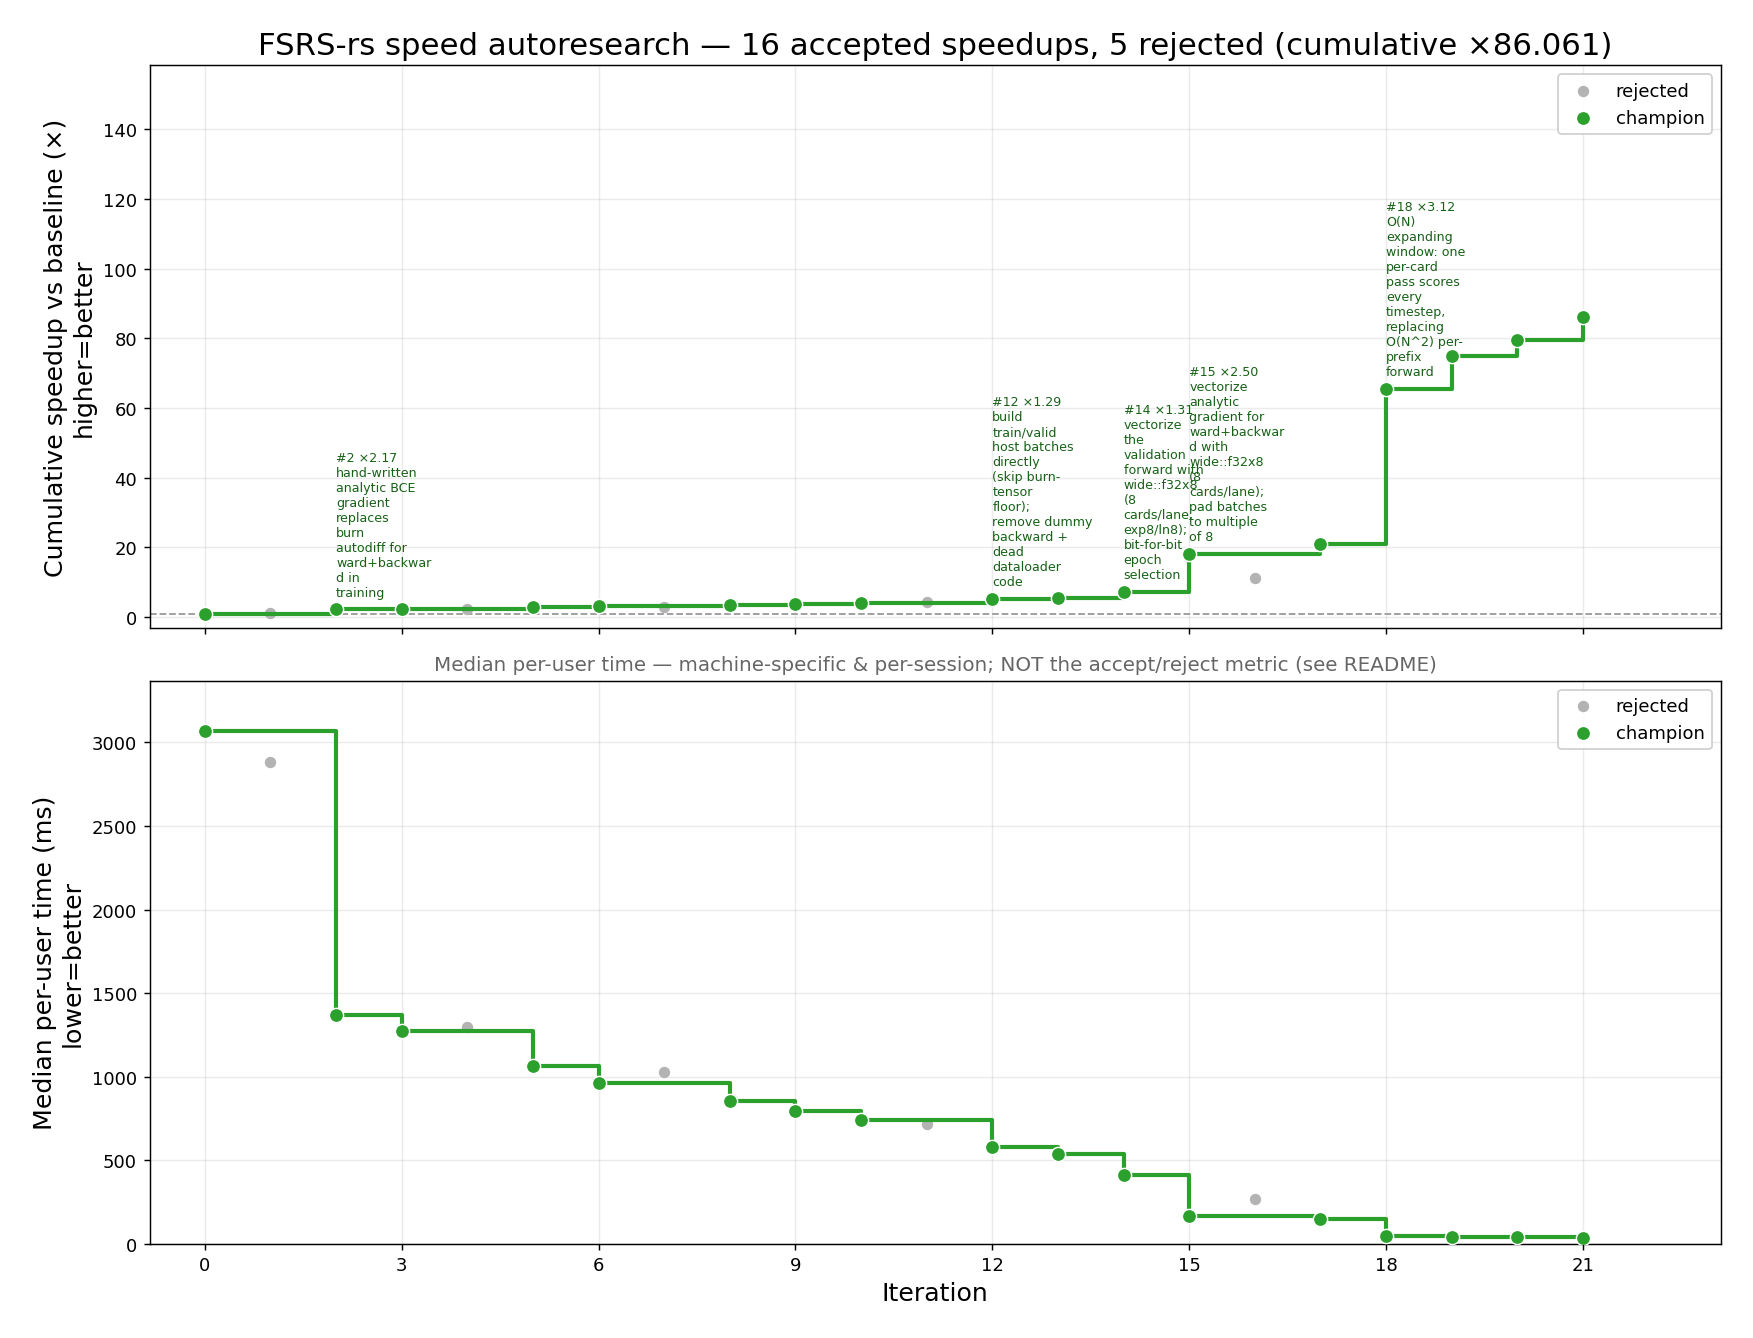
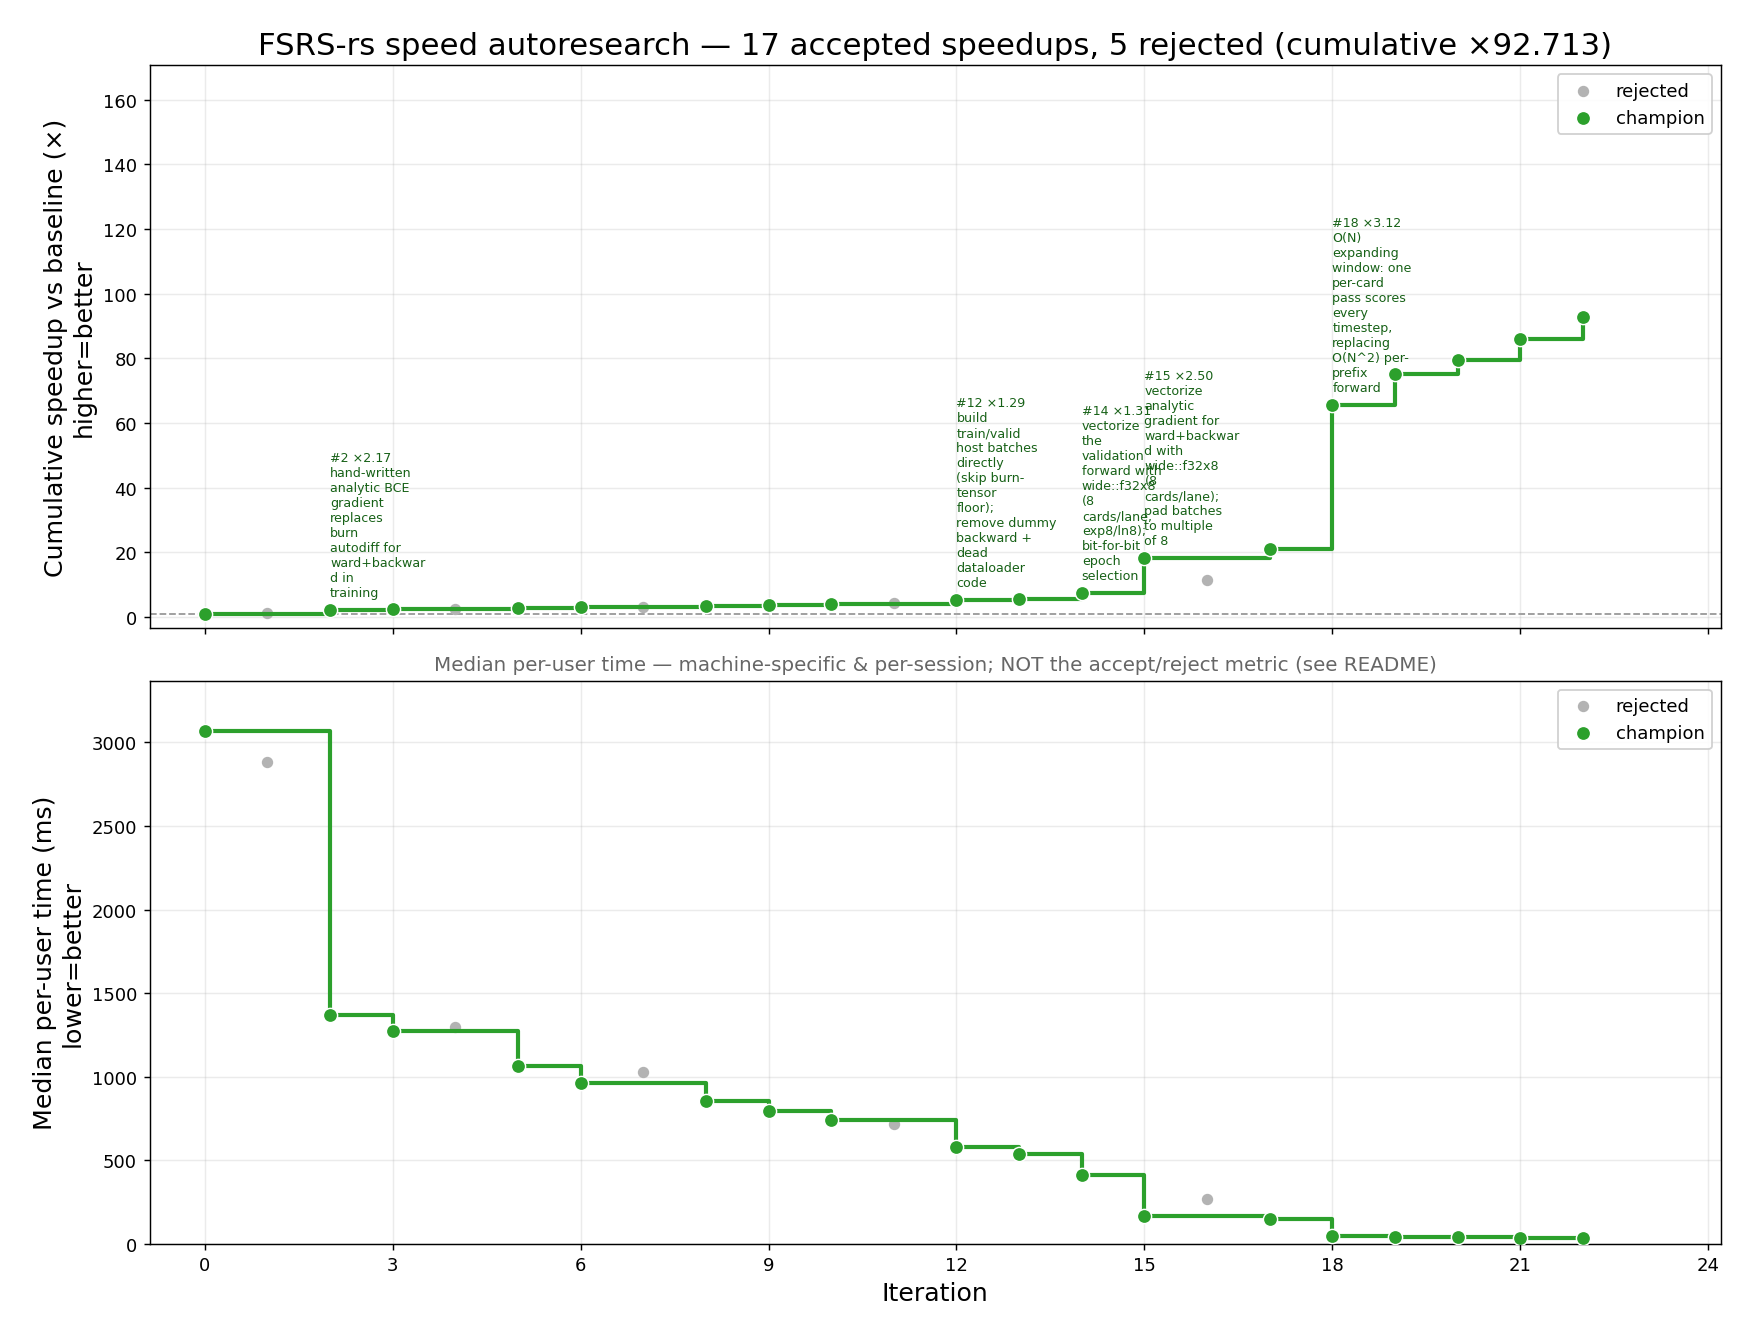
iter22: hand-roll Adam on host f32 — +7.7% median, bit-for-bit (both harnesses)
The analytic gradient already removed burn's autodiff; burn's tensor Adam
optimizer was the LAST burn code in the per-step loop. Each step round-tripped
the 36 params through model.w.val().to_data().to_vec() (twice, with the clipper)
plus a fresh GradientsParams container.

Now the parameters live in a plain Vec<f32> and Adam runs element-wise — a
faithful replica of burn 0.17's AdaptiveMomentum:
  m = m*b1 + g*(1-b1);  v = v*b2 + g.powf(2)*(1-b2);  t starts at 1
  w -= lr * (m/(1-b1^t)) / (sqrt(v/(1-b2^t)) + eps)
burn's first-step special case (m = g*factor) is just this with m=v=0, so one
unified loop reproduces it. Hyperparameters are single-sourced as ADAM_BETA1/2/EPS
consts (== the AdamConfig; constraint 4 freezes them).

Same arithmetic in the same order => BIT-FOR-BIT:
  - compute_parameters: 0/50 params, d_AVG LogLoss +0.000000
  - benchmark.py:       0/50 params, max |dLL| = 0  (vs the iter21 champion)
A math-unchanged (3a) win, not a precision trade.

Removed: parameter_clipper, the grad-tensor/GradientsParams plumbing, the
GradientsParams/Optimizer/Param imports, config.optimizer.init(). Per-step
profile now shows opt=0.000 (was ~7% on big users, more on the median).

Speed: median speed_ratio 1.0773 (mean 1.0836), 36.5 -> 34.5 ms. complexity
7187 -> 7180. Cumulative product of accepted: x92.71.

Also refreshed the (stale, iter20-era) committed benchmark output, and added two
Bash-on-Windows gotchas to CLAUDE.md (Git Bash /tmp != Python /tmp; start is cmd-only).

diff --git a/fsrs-rs/src/training.rs b/fsrs-rs/src/training.rs
@@ -8,9 +8,8 @@ use burn::config::Config;
 use burn::data::dataloader::batcher::Batcher;
 use burn::data::dataloader::Progress;
 use burn::lr_scheduler::LrScheduler;
-use burn::module::Param;
 use burn::nn::loss::Reduction;
-use burn::optim::{AdamConfig, GradientsParams, Optimizer};
+use burn::optim::AdamConfig;
 use burn::prelude::Backend;
 use burn::tensor::{Float, Int, Shape, Tensor, TensorData};
 use burn::tensor::backend::AutodiffBackend;
@@ -591,6 +590,14 @@ type B = NdArray<f32>;
 const L2_PENALTY_WEIGHT: f64 = training_v7::PENALTY_W_L2;
 const PENALTY_GRAD_LEN: usize = training_v7::GRAD_LEN;
 
+// Adam hyperparameters — MUST equal the AdamConfig built in compute_parameters()/benchmark().
+// Constraint 4 freezes these, so this single copy can't drift from the config. Used by the
+// hand-rolled host Adam in train(), which replaced burn's tensor optimizer (and its per-step
+// host round-trips) with an element-wise replica of burn 0.17's AdaptiveMomentum.
+const ADAM_BETA1: f32 = 0.55;
+const ADAM_BETA2: f32 = 0.955555;
+const ADAM_EPS: f32 = 1e-8;
+
 type SchedulePenaltyFn = fn(&[f32], usize, bool) -> (f64, [f64; PENALTY_GRAD_LEN]);
 type L2PenaltyFn = fn(&[f32], &[f32], usize, usize, f64, &[f32]) -> (f64, Vec<f32>);
 
@@ -682,23 +689,7 @@ impl LrScheduler for CosineAnnealingLR {
     }
 }
 
-// ========== Parameter Clipper ==========
-
-pub(crate) fn parameter_clipper<B: Backend>(
-    parameters: Param<Tensor<B, 1>>,
-    enable_short_term: bool,
-) -> Param<Tensor<B, 1>> {
-    let (id, val) = parameters.consume();
-    let clipped = clip_parameters(&val.to_data().to_vec().unwrap());
-    // Dual-trace FSRS-7 has no separate short-term toggle (the old w[26] transition
-    // weight is gone); the fast trace is intrinsic. enable_short_term is kept in the
-    // signature for call-site compatibility but no longer zeros any parameter.
-    let _ = enable_short_term;
-    Param::initialized(
-        id,
-        Tensor::from_data(TensorData::new(clipped, val.shape()), &val.device()).require_grad(),
-    )
-}
+// ========== (parameter clipping is now inlined into train()'s host Adam via clip_parameters) ==========
 
 // ========== FSRSItem and FSRSReview ==========
 
@@ -1558,21 +1549,28 @@ fn train<B: AutodiffBackend>(
         None => Box::new(NoProgress {}),
     };
 
-    let mut model: Model<B> = parameters_to_model::<B>(initial_parameters, &B::Device::default());
     let schedule_penalty = schedule_penalty_fn();
     let l2_penalty = l2_penalty_fn();
-    let init_w = model.w.val();
-    let init_w_vec = init_w.to_data().to_vec::<f32>().unwrap();
-    let mut optim = config.optimizer.init::<B, Model<B>>();
+    // Host-resident parameters + Adam state. The gradient is already analytic, so burn's optimizer
+    // was the LAST burn-tensor code in the per-step loop — each step round-tripped w through
+    // model.w.val().to_data().to_vec() (and again inside the clipper) plus a fresh GradientsParams.
+    // We keep w in a plain Vec<f32> and hand-roll Adam element-wise (see the loop below), so a step
+    // is now pure host arithmetic on 36 floats. parameters_to_model clips, so this start == the old
+    // model.w.val(); the returned Model is rebuilt once from best_w at the very end.
+    let mut w_host: Vec<f32> = clip_parameters(initial_parameters);
+    let init_w_vec = w_host.clone();
+    let mut adam_m = [0.0f32; 36]; // Adam 1st moment (burn AdaptiveMomentumState.moment_1)
+    let mut adam_v = [0.0f32; 36]; // Adam 2nd moment (moment_2)
+    let mut adam_t = 0i32; // step count (AdaptiveMomentumState.time; becomes 1 on the first step)
 
     let mut best_loss = f64::INFINITY;
-    let mut best_model = model.clone();
+    let mut best_w = w_host.clone();
     // (Validation batches were pre-built above into valid_host + valid_order; each epoch scores
     // them with the analytic forward crate::analytic::batch_loss — same BCE math + [1e-5,1-1e-5]
     // clamp as burn's tensor forward, only the FP summation order differs, judged by the 3b band.)
     // PROFILING-ONLY (not committed): per-phase wall time decomposition.
-    // t_bwd = analytic gradient, t_opt = dummy+step+clip. (Per-step extract is gone — the train
-    // batches are pre-extracted once into train_host, so that cost is now a one-time floor.)
+    // t_bwd = analytic gradient, t_opt = hand-rolled Adam + clip. (Per-step extract is gone — the
+    // train batches are pre-extracted once into train_host, so that cost is now a one-time floor.)
     let (mut t_pen, mut t_bwd, mut t_opt, mut t_valid) = (0.0f64, 0.0f64, 0.0f64, 0.0f64);
     for epoch in 1..=config.num_epochs {
         // Replicate the dataloader's per-epoch shuffle (one shuffle of [0, n_batches) per epoch).
@@ -1587,7 +1585,7 @@ fn train<B: AutodiffBackend>(
             let progress = Progress::new(iteration, n_train_batches);
             let _tp = std::time::Instant::now();
             let l2_weight = L2_PENALTY_WEIGHT;
-            let w_vec = model.w.val().to_data().to_vec::<f32>().unwrap();
+            let w_vec = w_host.clone();
             let (_l2_penalty_value, mut manual_grad) = l2_penalty(
                 &w_vec,
                 &init_w_vec,
@@ -1634,23 +1632,29 @@ fn train<B: AutodiffBackend>(
             }
             t_bwd += _tb.elapsed().as_secs_f64();
             let _to = std::time::Instant::now();
-            // Build the gradient container DIRECTLY from the analytic gradient — no autodiff at
-            // all. Previously a dummy `model.w.val().sum().backward()` created an empty grads
-            // container we then overwrote; even that trivial backward touched burn's Autodiff
-            // backend, whose global tensor ledger made the call cost scale with the number of
-            // live autodiff tensors (so it ballooned on large collections). The gradient VALUE
-            // reaching Adam is identical (total_grad_f32), so the SGD trajectory is bit-for-bit.
-            let w_id = model.w.id;
-            let inner_device = <B::InnerBackend as Backend>::Device::default();
-            let grad_tensor =
-                Tensor::<B::InnerBackend, 1>::from_floats(total_grad_f32.as_slice(), &inner_device);
-            let mut grads = GradientsParams::new();
-            grads.register::<B::InnerBackend, 1>(w_id, grad_tensor);
-            model = optim.step(lr, model, grads);
-            model.w = parameter_clipper(
-                model.w,
-                !config.model.freeze_short_term_stability,
-            );
+            // Hand-rolled Adam — replaces burn's tensor optimizer (the last burn code in the loop;
+            // it had round-tripped w through to_data().to_vec() + a fresh GradientsParams each step).
+            // Element-wise replica of burn 0.17's AdaptiveMomentum: m,v start at 0; time starts at 1;
+            // bias-correct by (1 - beta^t); epsilon OUTSIDE the sqrt; w -= lr * m_hat/(sqrt(v_hat)+eps).
+            // burn's first-step special case (m = g*factor) is just this formula with m=v=0, so the
+            // unified loop reproduces it. Same hyperparameters (ADAM_*) as the AdamConfig → the Adam
+            // math is identical; only the FP op order vs burn's ndarray kernels can differ (3b band).
+            adam_t += 1;
+            let bc1 = 1.0f32 - ADAM_BETA1.powi(adam_t);
+            let bc2 = 1.0f32 - ADAM_BETA2.powi(adam_t);
+            let f1 = 1.0f32 - ADAM_BETA1;
+            let f2 = 1.0f32 - ADAM_BETA2;
+            let lr_f32 = lr as f32;
+            for i in 0..36 {
+                let g = total_grad_f32[i];
+                adam_m[i] = adam_m[i] * ADAM_BETA1 + g * f1;
+                adam_v[i] = adam_v[i] * ADAM_BETA2 + g.powf(2.0) * f2;
+                let m_hat = adam_m[i] / bc1;
+                let v_hat = adam_v[i] / bc2;
+                w_host[i] -= lr_f32 * (m_hat / (v_hat.sqrt() + ADAM_EPS));
+            }
+            // The same clamp burn applied via parameter_clipper (clip_parameters), now in place.
+            w_host = clip_parameters(&w_host);
             t_opt += _to.elapsed().as_secs_f64();
             renderer.render_train(TrainingProgress {
                 progress,
@@ -1670,7 +1674,7 @@ fn train<B: AutodiffBackend>(
 
         let _tv = std::time::Instant::now();
         // w is fixed during validation, so extract it once per epoch (not per batch).
-        let w_vec_valid = model.w.val().to_data().to_vec::<f32>().unwrap();
+        let w_vec_valid = w_host.clone();
         let mut loss_valid = 0.0;
         for &vi in &valid_order {
             let vb = &train_host[vi];
@@ -1705,7 +1709,7 @@ fn train<B: AutodiffBackend>(
         info!("epoch: {:?} loss: {:?}", epoch, loss_valid);
         if loss_valid < best_loss {
             best_loss = loss_valid;
-            best_model = model.clone();
+            best_w = w_host.clone();
         }
     }
     eprintln!(
@@ -1719,7 +1723,7 @@ fn train<B: AutodiffBackend>(
         return Err(FSRSError::Interrupted);
     }
 
-    Ok(best_model)
+    Ok(parameters_to_model::<B>(&best_w, &B::Device::default()))
 }
 
 struct NoProgress {}

diff --git a/CLAUDE.md b/CLAUDE.md
@@ -52,6 +52,8 @@ Whenever you catch yourself going "wait — wrong path / wrong command / that's 
 - **The Bash tool has Unix coreutils here** (Git Bash on Windows): `cp`, `ls`, `find`, `sha256sum`, `grep`, `/tmp/…` all work, and `/tmp` is a real writable dir — it's where the `.pyd` snapshots (`champion.pyd`, `anchor_iter0.pyd`, …) live. Forward-slash paths in Bash; backslash only inside `cmd`/`start`.
 - **The champion record** Python reads/writes is `result/compute_parameters-FSRS-rs-short-secs-recency.jsonl`; `measure.py run` deletes+regenerates it each run, then copies it to `profiling/measure/<label>.jsonl`. It does NOT persist meaningfully between runs — always work from the `profiling/measure/*.jsonl` snapshots.
 - **Incremental cargo `--release` build ≈ 35 s** (fsrs lib + binding). If a "build" finishes near-instantly, nothing recompiled — confirm you actually edited a `.rs` under `fsrs-rs/src/` or `fsrs_rs_python/src/` (editing `.py`/`.md` needs no rebuild).
+- **`/tmp` is NOT the same place in Bash and in Python.** The Bash tool is Git Bash, whose `/tmp` is a real dir (where the `.pyd` snapshots live). A *Windows* Python process resolves `/tmp/foo` to `C:\tmp\foo` (drive-relative) — a different location — so handing a Bash-made `/tmp/...` path to `python` fails with FileNotFoundError. Keep `/tmp` strictly inside Bash (cp/sha256sum/diff); for anything Python must read, use a **repo-relative** path or just `git diff` a tracked file.
+- **`start /high /affinity ...` is cmd.exe-only** — the documented launch line is CMD syntax. In the Bash tool `start` isn't a command (Git Bash reads `/affinity` as a path and exits 1 without launching anything). For a *correctness* run, priority/affinity don't matter → just `python benchmark.py ...`. For a *timed* run, use `python profiling/measure.py run` (it applies HIGH priority + affinity 0xFFFFFFF0 via ctypes), or run the cmd line from a real `cmd`/PowerShell.
 
 ## Code layout
 

diff --git a/result/history.md b/result/history.md
@@ -26,6 +26,7 @@ Accept metric: **median per-user speed_ratio ≥ 1.05** (constraint 12) AND **sp
 | 19 | 47 | 40 | 1.145 | 7207 | 7204 | 1.000 | 0.999 | ✓ | accepted | Build host batches once (train==test): reuse for grad+validation, drop redundant clone+build |
 | 20 | 40 | 39 | 1.059 | 7204 | 7196 | 0.999 | 0.997 | ✓ | accepted | Unified BCE -ln(1-|label-r|) (Andrew): vectorize validation ln8 + one-division gradient seed |
 | 21 | 40 | 36 | 1.083 | 7196 | 7187 | 0.999 | 0.997 | ✓ | accepted | dedup card-regroup (bit-for-bit) + exp8 deg-3 minimax (1 fewer FMA) |
+| 22 | 36 | 34 | 1.077 | 7187 | 7180 | 0.999 | 0.998 | ✓ | accepted | hand-roll Adam + param clip on host f32, drop per-step burn tensor round-trips |
 
-**Cumulative speed_ratio (product of accepted): ×86.061** — upward-biased (winner's curse); anchor periodically vs iter-0 baseline.
+**Cumulative speed_ratio (product of accepted): ×92.713** — upward-biased (winner's curse); anchor periodically vs iter-0 baseline.
 
